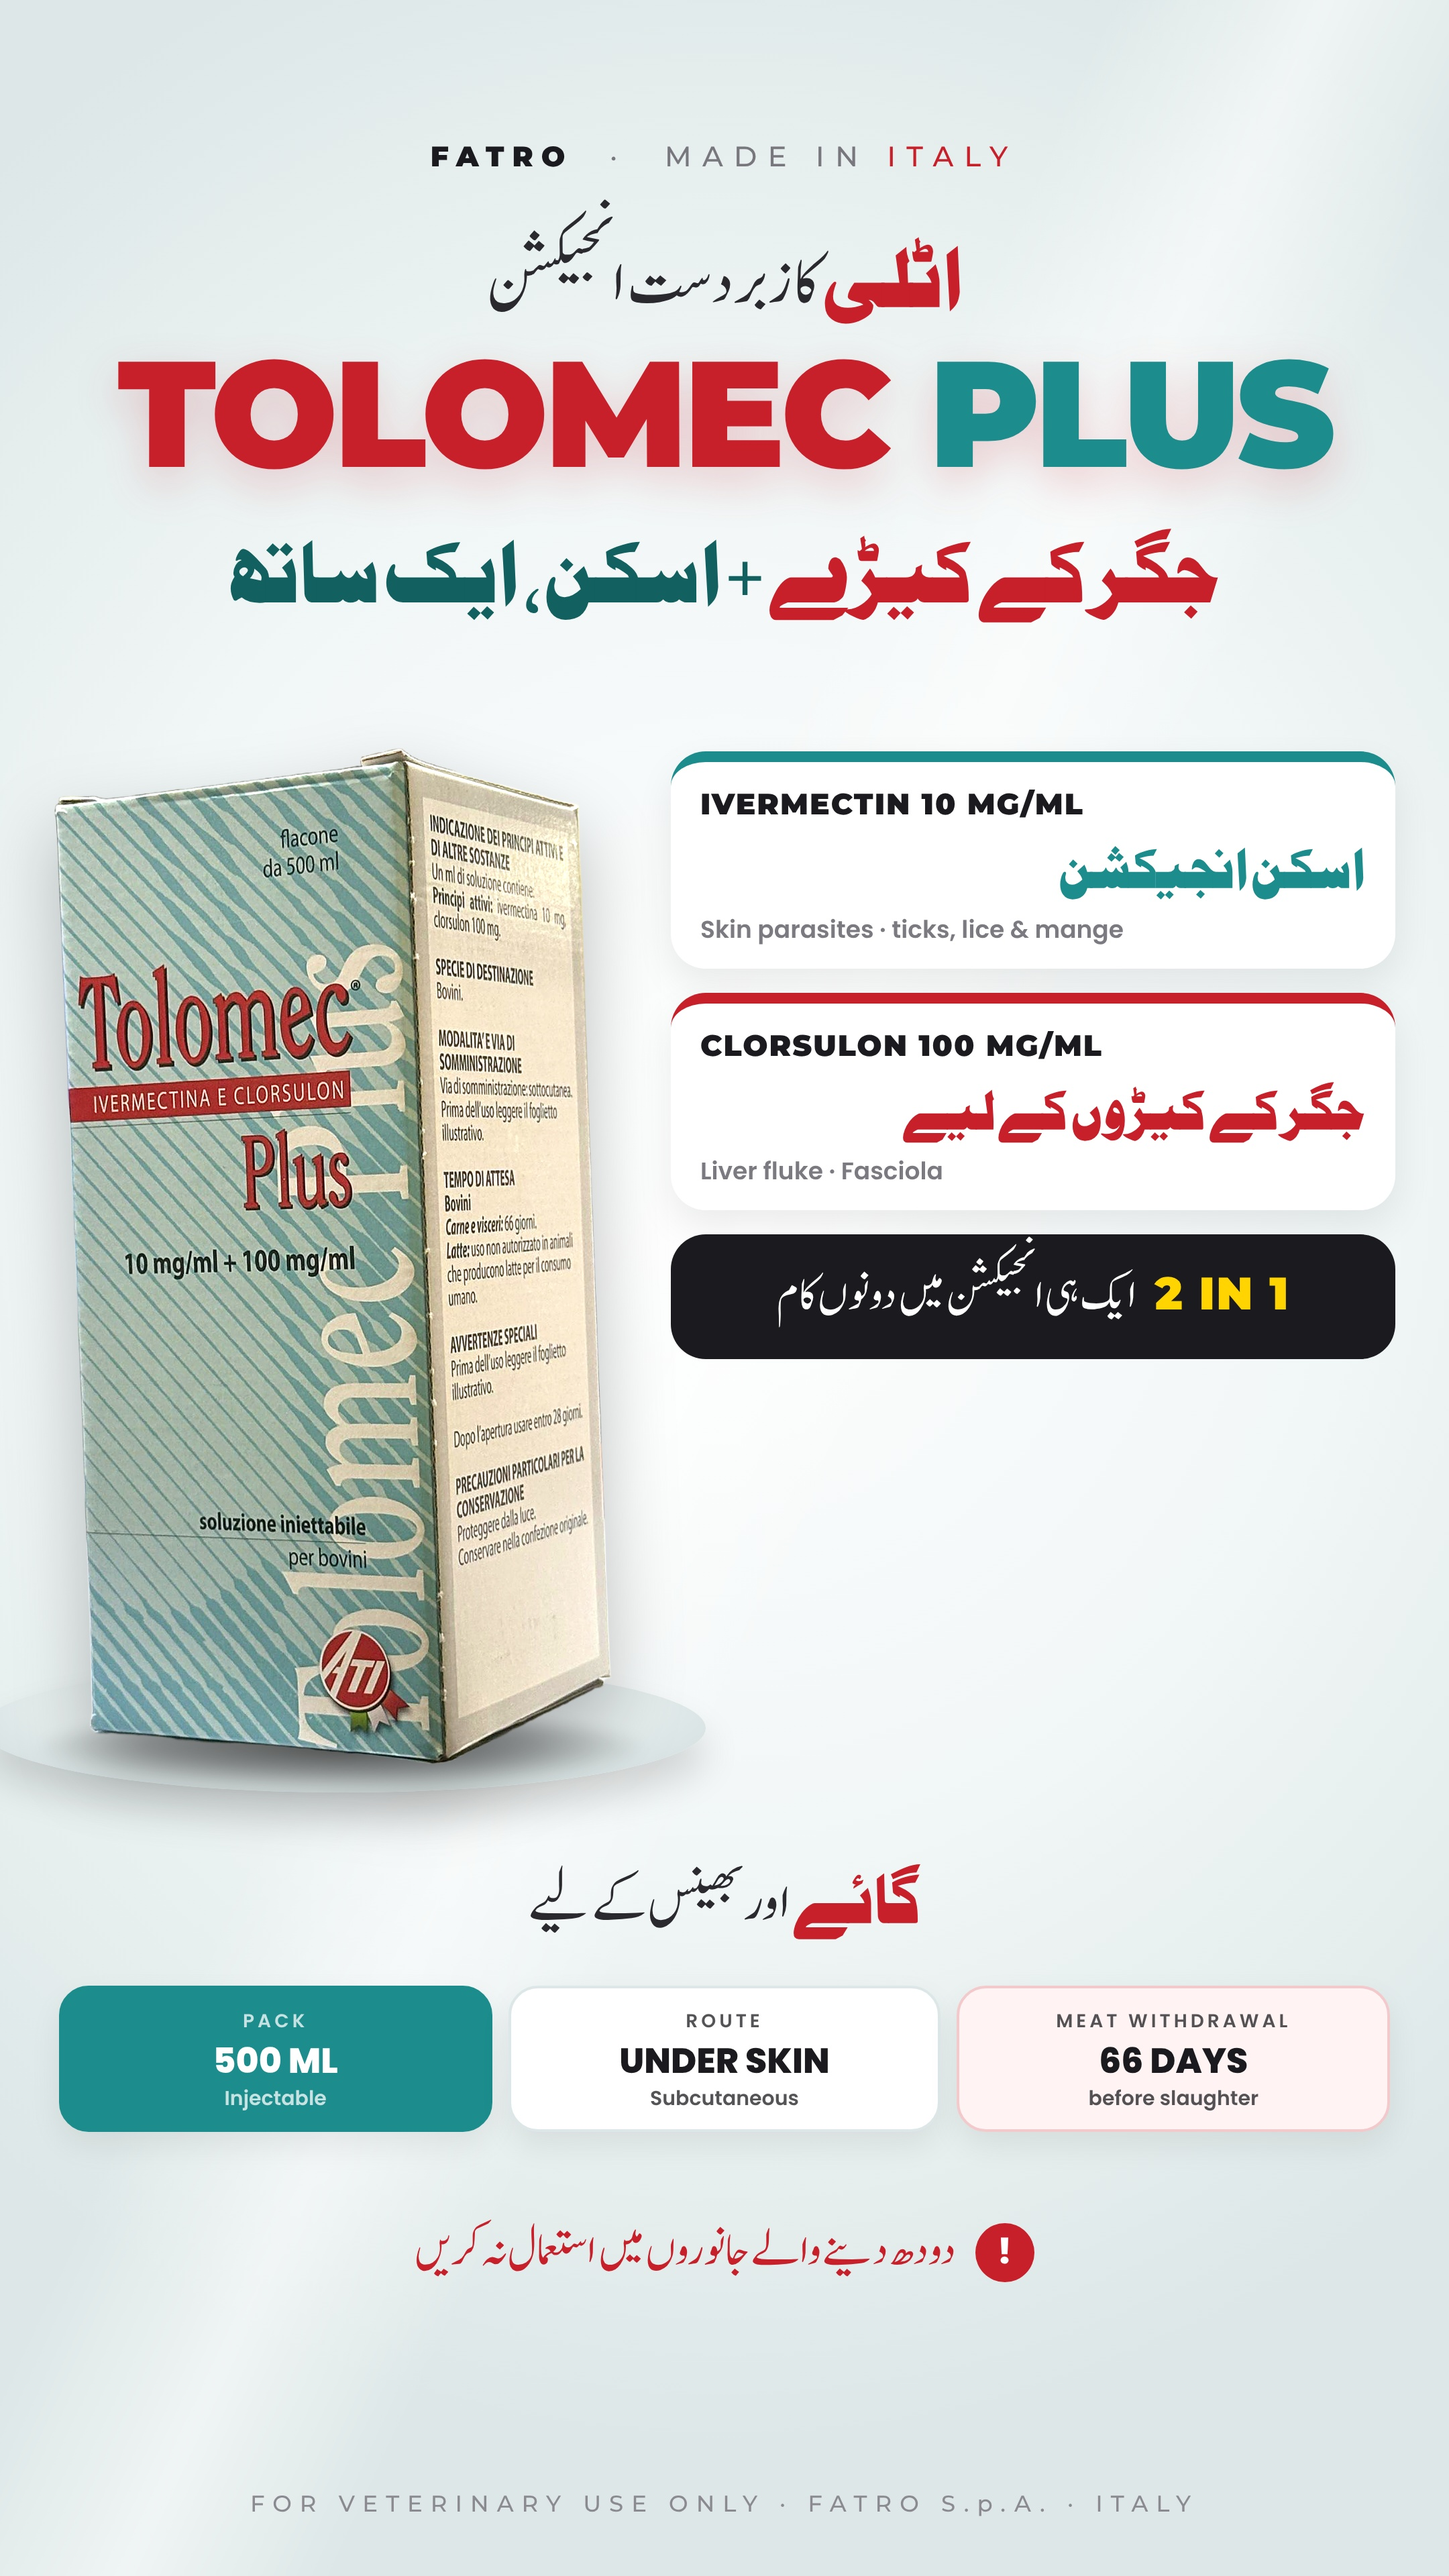
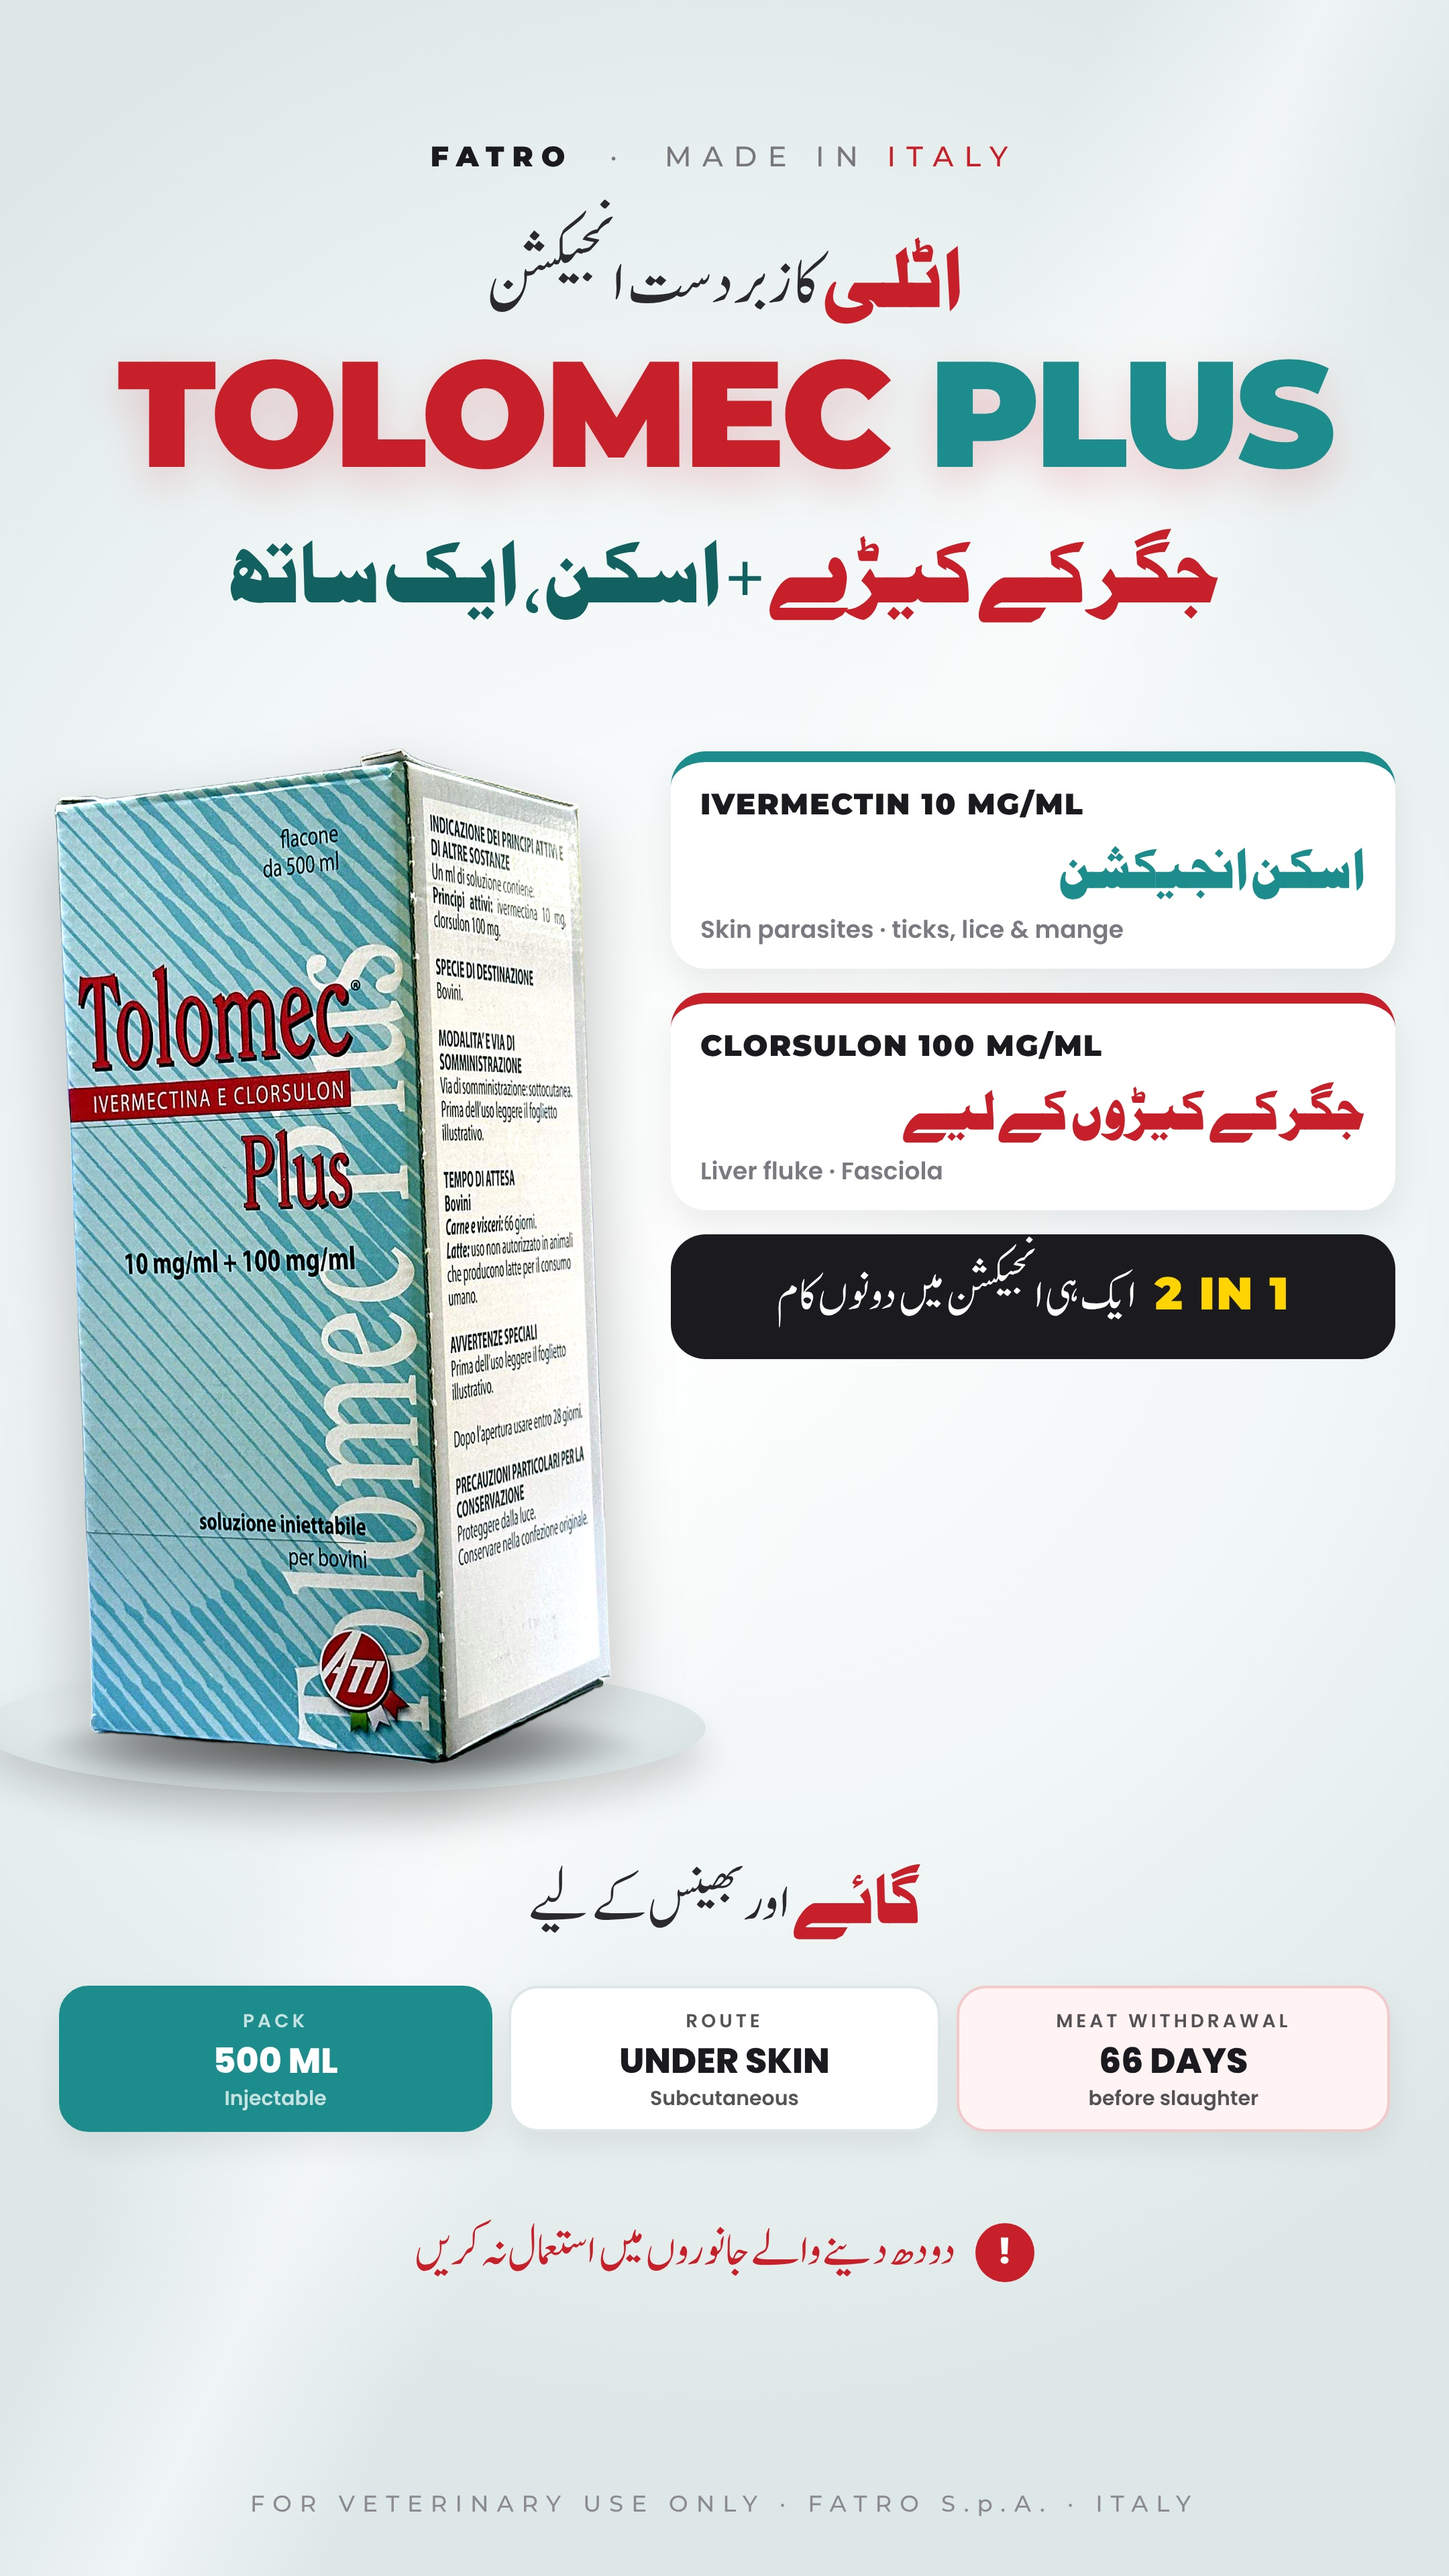
Tolomec post: brighter, higher-contrast box (auto levels)
Claude-Session: https://claude.ai/code/session_0139To4Bi5mkGo2BmfVPNRP3

Changed region(s): [[0.031, 0.2812, 0.4343, 0.6875]]

diff --git a/tools/posts/tolomec_post.py b/tools/posts/tolomec_post.py
@@ -15,8 +15,14 @@ fonts=[{"family":"Noori","path":F("JameelNooriNastaleeq-400.ttf"),"weight":400,"
  {"family":"Poppins","path":F("Poppins-800.ttf"),"weight":800,"style":"normal"}]
 d=R/"Video Edits/Export/tolomec-post"; w=d/"work"; w.mkdir(parents=True,exist_ok=True)
 im=Image.open(R/"Video Edits/Raw/tolomec/box2-crop-cutout.png").convert("RGBA"); a=im.split()[3]
-rgb=ImageEnhance.Brightness(im.convert("RGB")).enhance(1.18); rgb=ImageEnhance.Contrast(rgb).enhance(1.08); rgb=ImageEnhance.Color(rgb).enhance(1.1)
-rgb=rgb.filter(ImageFilter.UnsharpMask(2,60,2)); rgb.putalpha(a); box=w/"box.png"; rgb.save(box)
+x=np.asarray(im.convert("RGB")).astype(np.float32)/255
+lo=np.percentile(x[np.asarray(a)>128],1.5,axis=0); hi=np.percentile(x[np.asarray(a)>128],98.5,axis=0)
+x=np.clip((x-lo)/(hi-lo),0,1)                       # auto levels per channel (removes the grey/yellow cast)
+x=np.clip(x**0.85,0,1)                              # lift mid-tones
+x=0.5+(x-0.5)*1.12                                  # contrast
+rgb=Image.fromarray((np.clip(x,0,1)*255).astype("uint8"))
+rgb=ImageEnhance.Color(rgb).enhance(1.15).filter(ImageFilter.UnsharpMask(2,70,2))
+rgb.putalpha(a); box=w/"box.png"; rgb.save(box)
 T="#1C8C8C"; T2="#2BB3B0"; TD="#12605F"; RED="#C8202B"; INK="#1B1B1F"
 chk='<svg width="22" height="22" viewBox="0 0 24 24"><path d="M5 12.5l4.2 4.2L19 7" fill="none" stroke="#fff" stroke-width="3.6" stroke-linecap="round" stroke-linejoin="round"/></svg>'
 cards=[("IVERMECTIN 10 MG/ML","اسکن انجیکشن","Skin parasites · ticks, lice & mange"),
